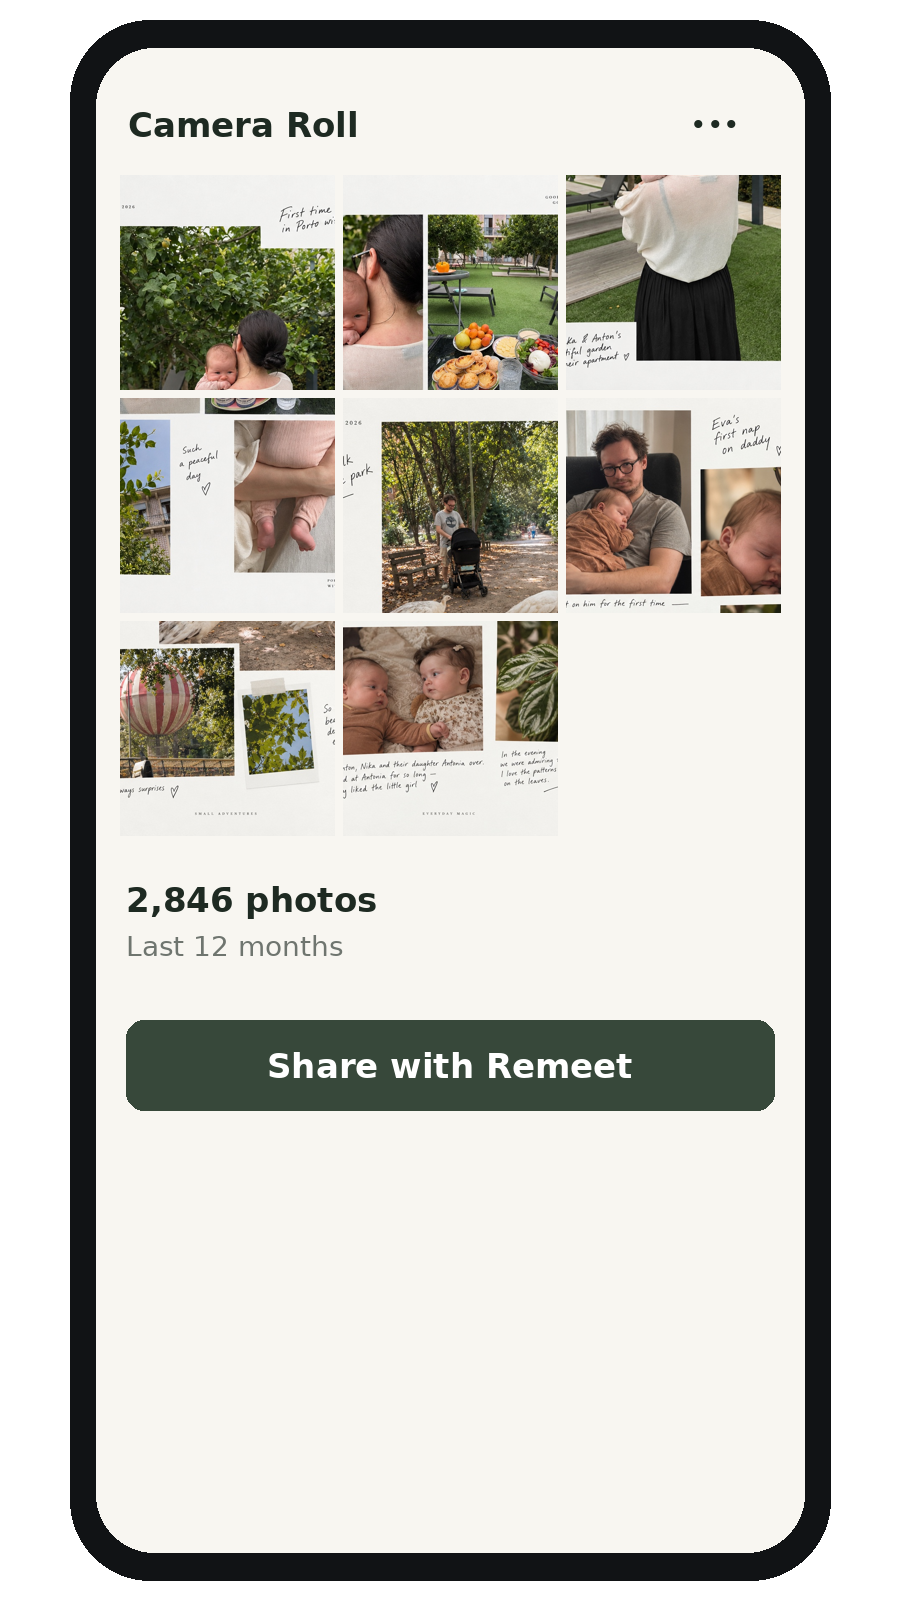
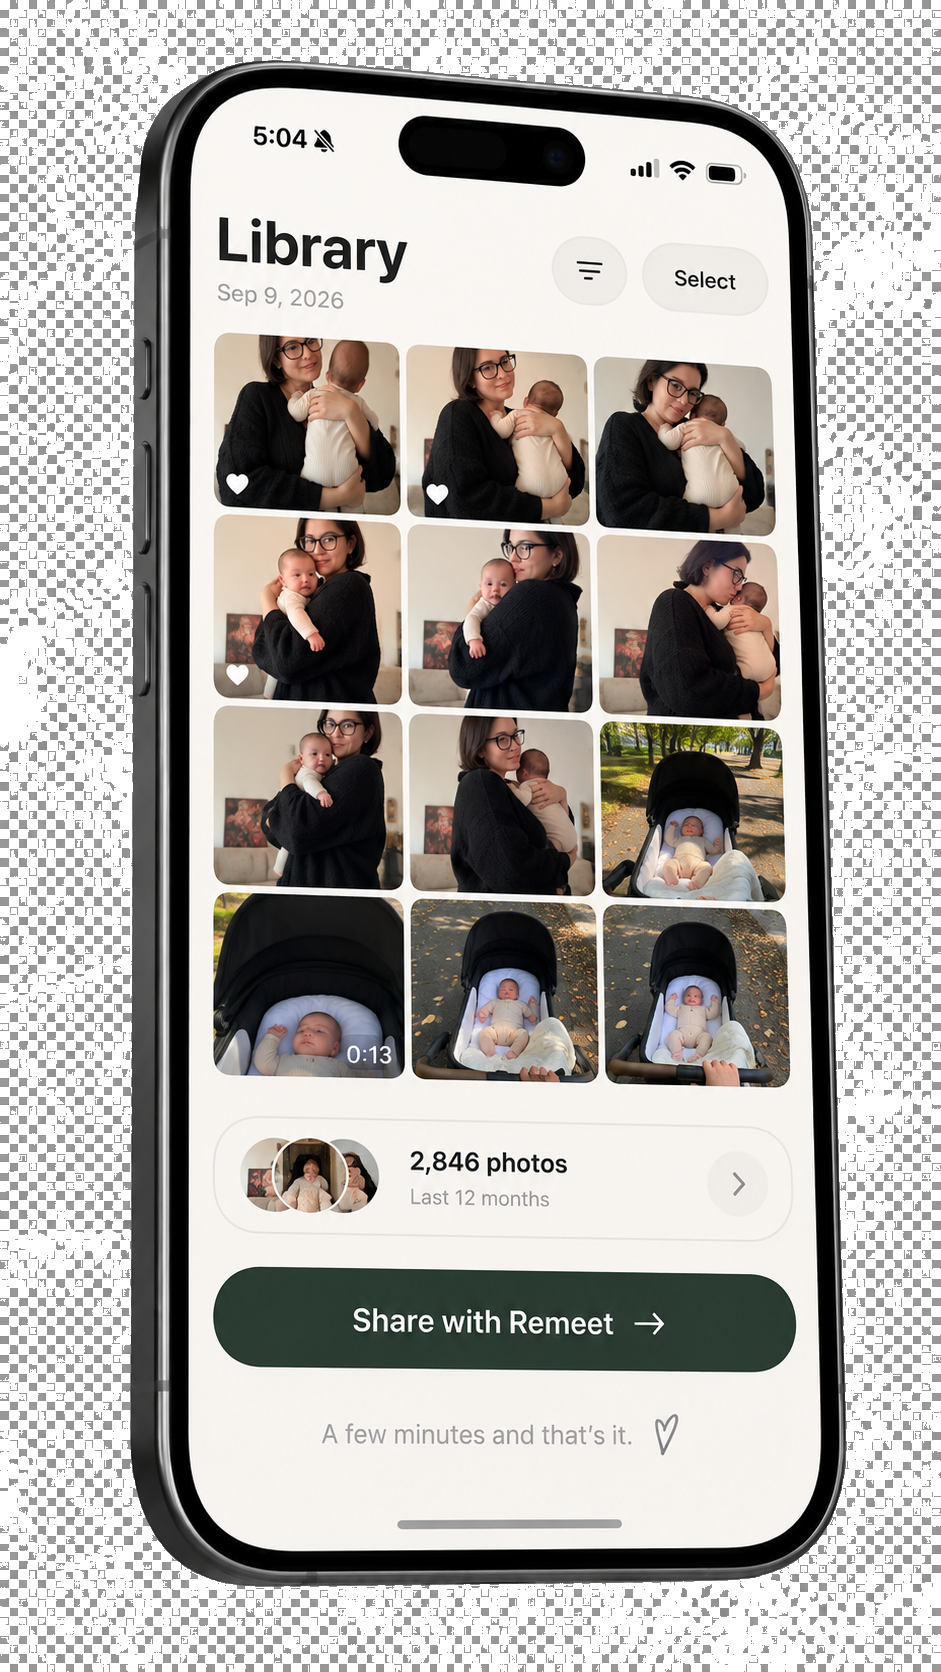
fix: replace phone mockup in Send Us Photos section
New branded phone mockup with real Remeet UI (Library view, "Share
with Remeet" button). Processed to add alpha transparency for clean
background blending.

diff --git a/styles.css b/styles.css
@@ -191,7 +191,7 @@ h1,h2,h3{font-weight:500;letter-spacing:-.045em}
 .story-copy p{font-family:var(--serif);font-size:1.27rem;line-height:1.25;margin:0 0 12px}
 .quiet{color:#6f756f}
 .story-visual{position:relative}
-.phone-scene{min-height:480px;display:flex;align-items:end;justify-content:center;background:linear-gradient(180deg,#f4f0e8,#e9e0d2)}
+.phone-scene{min-height:480px;display:flex;align-items:end;justify-content:center;background:linear-gradient(180deg,#f4f0e8,#e9e0d2);overflow:hidden}
 .phone-scene img{width:43%;max-width:290px;filter:drop-shadow(0 24px 34px rgba(0,0,0,.16));transform:rotate(-3deg)}
 .floating-note{position:absolute;font-size:1.6rem;right:8%;top:8%;transform:rotate(-5deg)}
 .book-scene img{box-shadow:var(--shadow);border:10px solid #fffaf2}
